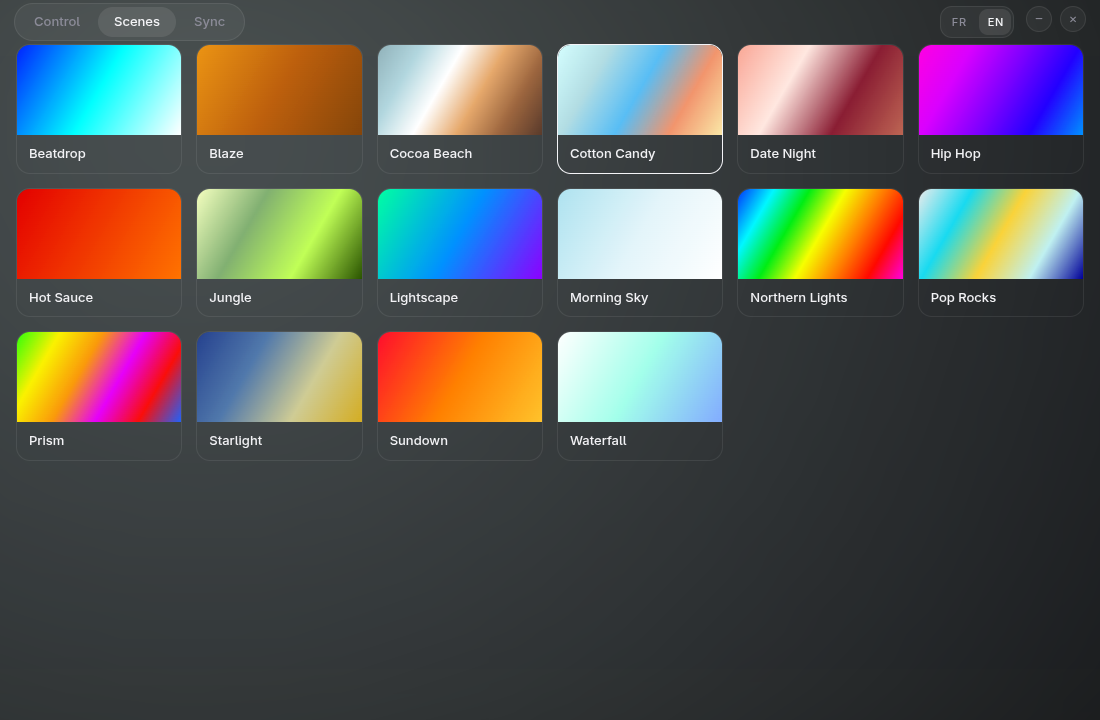
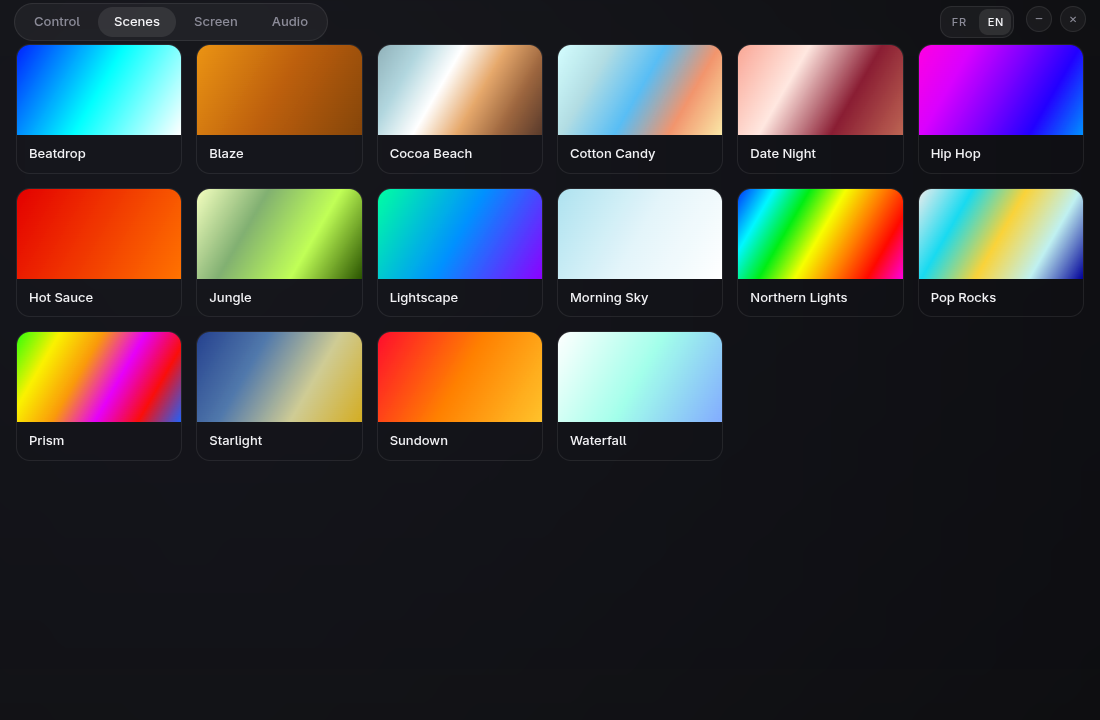
fix: stop drawing an unknown wall darker than an unlit one
Regenerating the README screenshots showed it: under an effect whose palette
the app cannot name, at 51 % brightness, the wall rendered at (20,21,27) —
darker than the (34,36,46) that stands for a wall switched off. The mock-up
was saying "I don't know what this is showing" more faintly than it says
"this is off", which reads as a wall in worse shape than a dark one.

The neutral tint is a placeholder for that ignorance, and a placeholder is
not light: dimming it by the device's brightness was the mistake. It is now
left alone, as the unlit tint already was.

The screenshots themselves were fifteen hours behind the interface — no
panel outlines, no mode selector, the old help texts — and there was none of
the audio screen at all. All four are regenerated from the real device, and
the audio one joins the README in both languages.

The scene hint still promised that picking a colour would replace the scene,
which stopped being the whole truth when the wheel started colouring the
chosen panels instead. And the spec still described the three-second manual
release that was removed on the 26th; it now carries a note saying what
replaced it and why, rather than quietly contradicting the code.

diff --git a/src/shared/wall-colors.test.ts b/src/shared/wall-colors.test.ts
@@ -159,6 +159,22 @@ describe('wallColors', () => {
   })
 
   /**
+   * The neutral tint says "this wall is showing something we cannot name".
+   * Dimming it by the device's brightness made that placeholder darker than
+   * the one for a wall that is off — the mock-up saying "unknown" more
+   * faintly than it says "unlit", which reads as a wall in worse shape than
+   * a switched-off one.
+   */
+  it('never draws an unknown wall darker than an unlit one', () => {
+    const dim = state({ colorMode: 'effect', effect: 'Unknown', brightness: 20 })
+
+    const colors = wallColors(layout.panels, dim, palettes, nothing)
+
+    const shown = colors.get(1)!
+    expect(shown.r + shown.g + shown.b).toBeGreaterThan(OFF.r + OFF.g + OFF.b)
+  })
+
+  /**
    * The stage behind the wall is nearly black. An unlit panel drawn in pure
    * black left nothing on screen to aim at once the wall was switched off.
    */

diff --git a/src/shared/wall-colors.ts b/src/shared/wall-colors.ts
@@ -84,9 +84,16 @@ export function wallColors(
     // them as soon as a scene runs, and they often sit at 0/0 — pure white.
     // Showing that white would suggest a wall lit white when in truth we
     // simply do not know what it is showing.
-    const base = state.colorMode === 'effect' ? NEUTRAL : hsbToRgb(state.hue, state.sat, 100)
-
-    colors.set(panel.panelId, dim(base, factor))
+    //
+    // The neutral tint stands in for that ignorance, and a placeholder is
+    // not light: dimming it by the device's brightness took it below the
+    // tint used for an unlit wall, so the mock-up said "unknown" more
+    // faintly than it says "off".
+    if (state.colorMode === 'effect') {
+      colors.set(panel.panelId, NEUTRAL)
+      return
+    }
+    colors.set(panel.panelId, dim(hsbToRgb(state.hue, state.sat, 100), factor))
   })
 
   return colors

diff --git a/src/shared/i18n/fr.ts b/src/shared/i18n/fr.ts
@@ -36,7 +36,7 @@ export const fr = {
   'control.colour': 'Couleur',
   'control.externalControl': 'Piloté de l’extérieur',
   'control.colour.underScene':
-    "Une scène est en cours : le device ne rapporte plus de teinte. Choisir une couleur la remplacera.",
+    "Une scène est en cours : le device ne rapporte plus de teinte. La roue colore les panneaux choisis, ou remplace la scène si tu n'en as choisi aucun.",
   'control.orientation': 'Orientation du mur',
   'control.orientation.help':
     "Le device ne dit pas comment le mur est accroché, et rien n'oblige un mur à être posé d'équerre.",

diff --git a/src/shared/i18n/en.ts b/src/shared/i18n/en.ts
@@ -32,7 +32,7 @@ export const en: Dictionary = {
   'control.colour': 'Colour',
   'control.externalControl': 'Driven externally',
   'control.colour.underScene':
-    'A scene is running: the device no longer reports a hue. Picking a colour will replace it.',
+    'A scene is running: the device no longer reports a hue. The wheel colours the panels you chose, or replaces the scene when you have chosen none.',
   'control.orientation': 'Wall orientation',
   'control.orientation.help':
     'The device does not report how the wall is mounted, and nothing says a wall has to hang square.',

diff --git a/src/main/store.test.ts b/src/main/store.test.ts
@@ -91,7 +91,7 @@ describe('ConfigStore', () => {
 
   it('tolerates a corrupted file', async () => {
     const flat = join(dir, 'config.json')
-    await writeFile(flat, '{ pas du json', 'utf8')
+    await writeFile(flat, '{ not json', 'utf8')
 
     expect(await new ConfigStore(flat).load()).toEqual({ devices: {}, activeDeviceId: null })
   })

diff --git a/src/main/device/events.test.ts b/src/main/device/events.test.ts
@@ -46,7 +46,7 @@ describe('parseEventBlock', () => {
   })
 
   it('survives unreadable JSON', () => {
-    expect(parseEventBlock('1', 'pas du json')).toEqual([])
+    expect(parseEventBlock('1', 'not json')).toEqual([])
   })
 
   it('survives a block with no events', () => {

diff --git a/README.fr.md b/README.fr.md
@@ -7,7 +7,7 @@
 [![CI](https://github.com/myqzurdux3/eclat/actions/workflows/ci.yml/badge.svg)](https://github.com/myqzurdux3/eclat/actions/workflows/ci.yml)
 [![Licence : MIT](https://img.shields.io/badge/licence-MIT-6aa9ff.svg)](LICENSE)
 ![Plateforme : Linux](https://img.shields.io/badge/plateforme-Linux-33e0b0.svg)
-![Tests](https://img.shields.io/badge/tests-428%20passants-e0347a.svg)
+![Tests](https://img.shields.io/badge/tests-429%20passants-e0347a.svg)
 
 [English](README.md) · [Démarrer](#démarrer) · [Architecture](#architecture) · [Ce que le matériel apprend](#ce-que-le-matériel-apprend)
 
@@ -45,6 +45,12 @@ sans compte cloud, sans SDK propriétaire, sans télémétrie.
 <tr>
 <td align="center"><em>Les scènes, aux couleurs des palettes du device</em></td>
 <td align="center"><em>La synchronisation écran, pipeline à découvert</em></td>
+</tr>
+<tr>
+<td colspan="2"><img src="docs/images/audio.png" alt="Réglages de la synchronisation audio, avec les quatre modes et les niveaux par bande"></td>
+</tr>
+<tr>
+<td colspan="2" align="center"><em>La synchronisation audio, en quatre modes</em></td>
 </tr>
 </table>
 
@@ -125,7 +131,7 @@ l'isolation du renderer pour contourner un réglage système temporaire.
 ## Développement
 
 ```bash
-npm test                # 428 tests unitaires, sans matériel ni réseau
+npm test                # 429 tests unitaires, sans matériel ni réseau
 npm run typecheck       # processus main + renderer
 npm run build           # processus main + renderer
 npm run dev:renderer    # serveur Vite, puis :

diff --git a/README.md b/README.md
@@ -7,7 +7,7 @@
 [![CI](https://github.com/myqzurdux3/eclat/actions/workflows/ci.yml/badge.svg)](https://github.com/myqzurdux3/eclat/actions/workflows/ci.yml)
 [![Licence: MIT](https://img.shields.io/badge/licence-MIT-6aa9ff.svg)](LICENSE)
 ![Platform: Linux](https://img.shields.io/badge/platform-Linux-33e0b0.svg)
-![Tests](https://img.shields.io/badge/tests-428%20passing-e0347a.svg)
+![Tests](https://img.shields.io/badge/tests-429%20passing-e0347a.svg)
 
 [Français](README.fr.md) · [Getting started](#getting-started) · [How it works](#architecture) · [What the hardware taught us](#notes-from-the-hardware)
 
@@ -58,6 +58,12 @@ detail it ran into is written down in [Notes from the hardware](#notes-from-the-
 <tr>
 <td align="center"><em>Scenes, coloured by the device's own palettes</em></td>
 <td align="center"><em>Screen sync, with the pipeline exposed</em></td>
+</tr>
+<tr>
+<td colspan="2"><img src="docs/images/audio.png" alt="Audio sync settings, with the four modes and the band meters"></td>
+</tr>
+<tr>
+<td colspan="2" align="center"><em>Audio sync, in four modes</em></td>
 </tr>
 </table>
 
@@ -111,7 +117,7 @@ isolation to work around a temporary system setting.
 ## Development
 
 ```bash
-npm test                # 428 unit tests — no hardware, network, GPU or DOM
+npm test                # 429 unit tests — no hardware, network, GPU or DOM
 npm run typecheck       # main process + renderer
 npm run build           # main process + renderer
 npm run dev:renderer    # Vite dev server, then, in another terminal:

diff --git a/docs/superpowers/specs/2026-08-20-nanoleaf-linux-design.md b/docs/superpowers/specs/2026-08-20-nanoleaf-linux-design.md
@@ -273,6 +273,14 @@ Priorité stricte, un seul writer :
 4. Scène / effet du device
 ```
 
+> **Écart assumé, 26 août 2026.** Le relâchement au bout de trois secondes a
+> été retiré : à l'usage il se lisait comme un mur qui s'efface tout seul
+> quelques instants après avoir été peint. La peinture tient désormais le mur
+> jusqu'à ce que quelque chose le reprenne — une scène, une synchro,
+> l'extinction, ou le device qui annonce un effet de lui-même. Les trois
+> secondes restent, mais uniquement comme priorité dans `arbiter.ts` : un
+> trait passe devant une synchro en cours pendant ce délai. Voir `dc40e21`.
+
 Deux modes de sync ne sont jamais actifs en concurrence sur le socket. Un
 mode **combiné** explicite existe — l'écran fournit la teinte, l'audio
 module l'intensité — implémenté comme un producteur unique lisant deux
